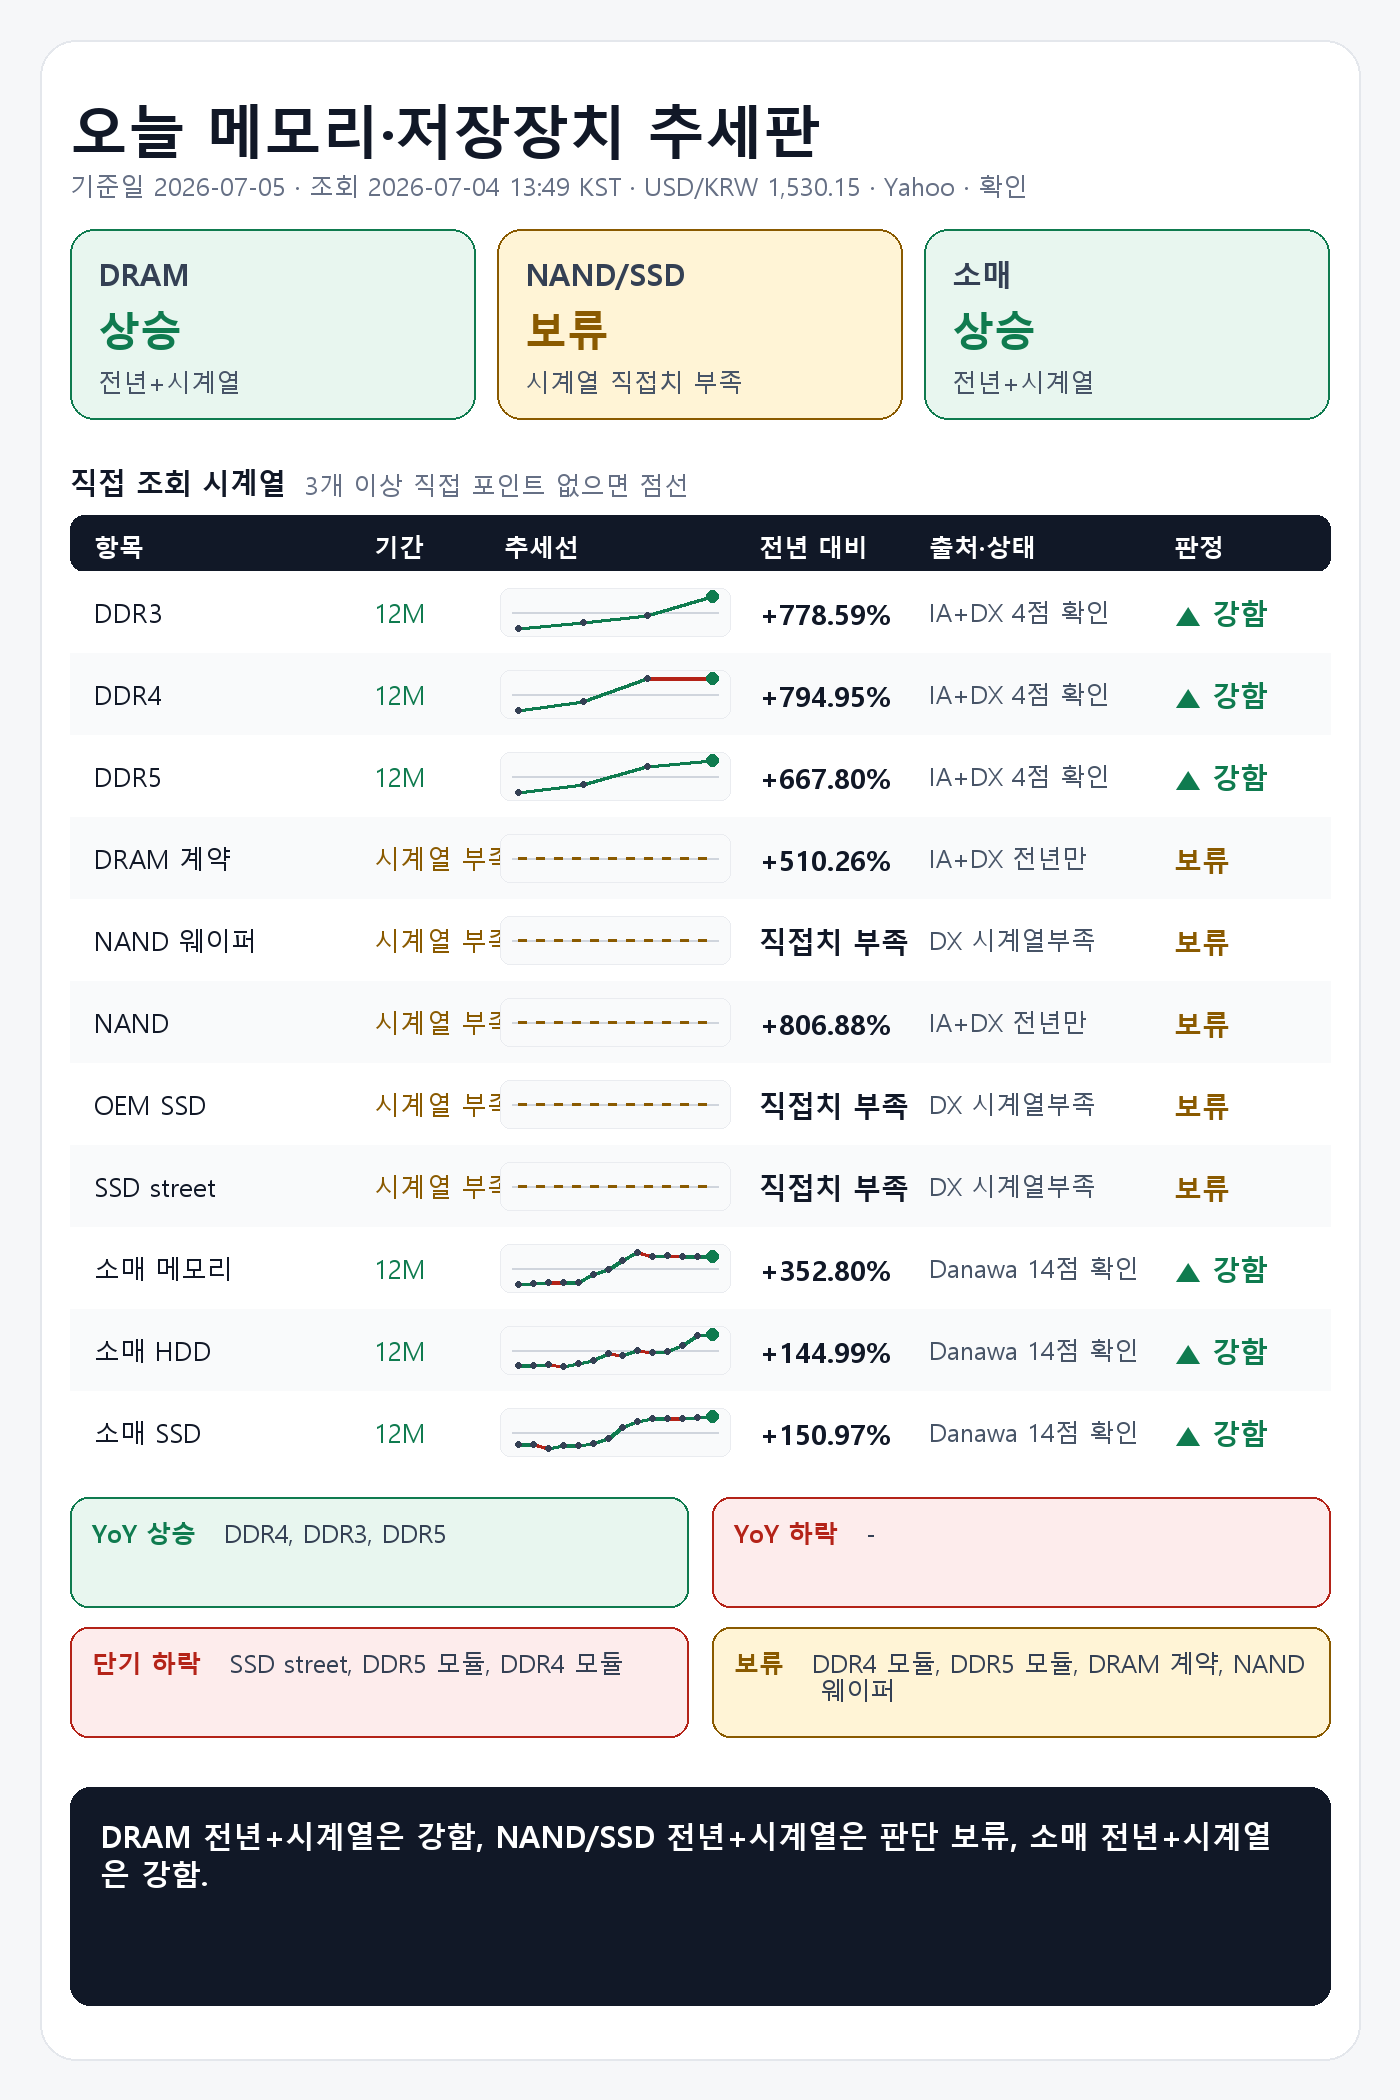
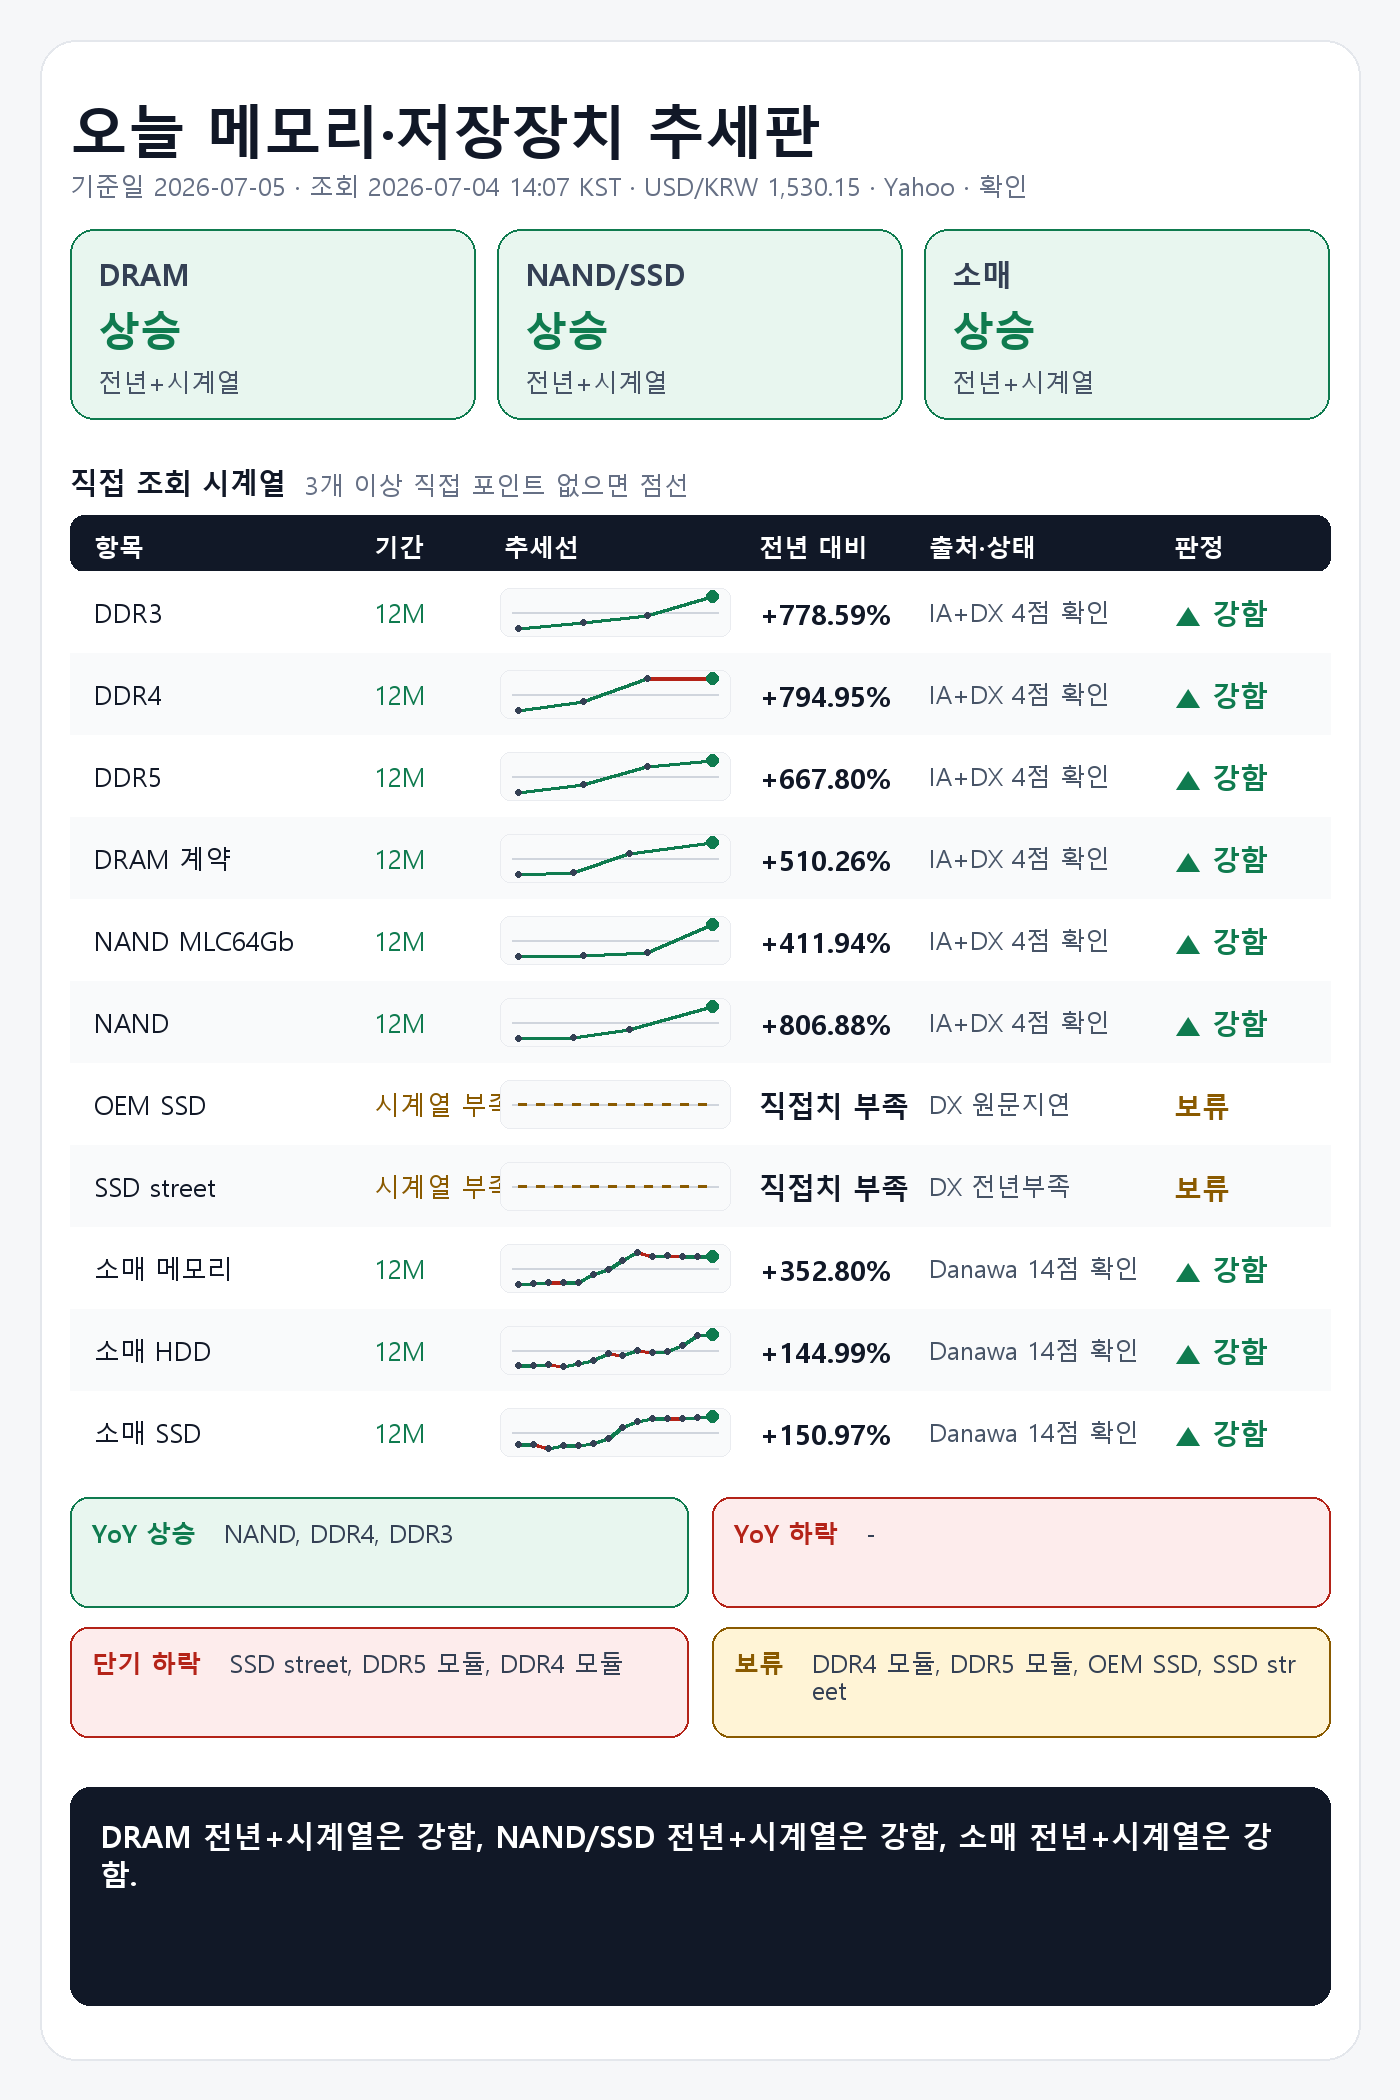
Backfill direct trend data where available

diff --git a/scripts/generate_memory_price_report.py b/scripts/generate_memory_price_report.py
@@ -305,6 +305,23 @@ def find_row(rows: list[SourceRow], *keywords: str) -> SourceRow | None:
     return None
 
 
+def find_nand_flash_row(rows: list[SourceRow]) -> SourceRow | None:
+    return (
+        find_row(rows, "TLC", "512Gb")
+        or find_row(rows, "MLC", "64Gb")
+        or find_row(rows, "MLC", "32Gb")
+    )
+
+
+def nand_flash_label(row: SourceRow | None) -> str:
+    if row is None:
+        return "NAND 웨이퍼"
+    match = re.search(r"\b(SLC|MLC|TLC)\s+(\d+Gb)\b", row.item)
+    if not match:
+        return "NAND 웨이퍼 (Flash spot)"
+    return f"NAND 웨이퍼 ({match.group(1)} {match.group(2)})"
+
+
 def record_from_row(label: str, group: str, row: SourceRow | None, rate: ExchangeRate, basis: str) -> ReportRecord:
     if row is None:
         return unavailable_record(label, group, "DRAMeXchange 공개표", DRAMEXCHANGE_HOME, UNAVAILABLE)
@@ -317,7 +334,7 @@ def record_from_row(label: str, group: str, row: SourceRow | None, rate: Exchang
         group=group,
         current=current,
         query_source=f"{QUERY_TIME} · DRAMeXchange 공개표",
-        last_update=row.last_update,
+        last_update=f"{row.last_update}, 항목 {row.item}",
         day=change if basis == "전일" else UNAVAILABLE,
         week=change if basis == "전주" else UNAVAILABLE,
         month=change if basis == "전월" else UNAVAILABLE,
@@ -495,6 +512,7 @@ def build_records(rate: ExchangeRate) -> list[ReportRecord]:
     flash_contract = fetch_home_price("NationalFlashContract")
     pcc_contract = fetch_home_price("PCC")
     ssd_street = fetch_home_price("SSD")
+    nand_flash_row = find_nand_flash_row(flash_rows)
 
     records = [
         record_from_row("DDR3 칩", "DRAM", find_row(dram_rows, "DDR3"), rate, "전일"),
@@ -510,7 +528,7 @@ def build_records(rate: ExchangeRate) -> list[ReportRecord]:
             "DRAMeXchange HomePrice NationalDramContract",
             "https://www.dramexchange.com/Price/NationalContractDramDetail",
         ),
-        record_from_row("NAND 웨이퍼", "NAND/SSD", find_row(flash_rows, "TLC", "512Gb"), rate, "전일"),
+        record_from_row(nand_flash_label(nand_flash_row), "NAND/SSD", nand_flash_row, rate, "전일"),
         record_from_home_price(
             "NAND 계약가",
             "NAND/SSD",
@@ -710,7 +728,7 @@ def fetch_prior_year_dramexchange_spot(prior_date: date) -> dict[str, PriorYearV
         add_prior_from_row(values, "DDR5 칩", find_row(dram_rows, "DDR5", "2Gx8", "4800"), source, archive_url, reference)
         add_prior_from_row(values, "DDR4 모듈", find_row(module_rows, "DDR4", "UDIMM", "16GB", "3200"), source, archive_url, reference)
         add_prior_from_row(values, "DDR5 모듈", find_row(module_rows, "DDR5", "UDIMM", "16GB"), source, archive_url, reference)
-        add_prior_from_row(values, "NAND 웨이퍼", find_row(flash_rows, "TLC", "512Gb"), source, archive_url, reference)
+        add_prior_from_row(values, "NAND 웨이퍼", find_nand_flash_row(flash_rows), source, archive_url, reference)
         return values
     return {}
 
@@ -907,7 +925,7 @@ def fetch_dramexchange_spot_trend_points(start: date, end: date) -> dict[str, li
         add_trend_point(mapping, "DDR5 칩", find_row(dram_rows, "DDR5", "2Gx8", "4800"), capture)
         add_trend_point(mapping, "DDR4 모듈", find_row(module_rows, "DDR4", "UDIMM", "16GB", "3200"), capture)
         add_trend_point(mapping, "DDR5 모듈", find_row(module_rows, "DDR5", "UDIMM", "16GB"), capture)
-        add_trend_point(mapping, "NAND 웨이퍼", find_row(flash_rows, "TLC", "512Gb"), capture)
+        add_trend_point(mapping, "NAND 웨이퍼", find_nand_flash_row(flash_rows), capture)
     return mapping
 
 
@@ -947,21 +965,21 @@ def fetch_dramexchange_home_price_trend_points(start: date, end: date) -> dict[s
     ]
     mapping: dict[str, list[TrendPoint]] = {}
     targets = trend_target_dates(start, end, IMAGE_TREND_POINTS)
+    captures = fetch_cdx_captures(
+        "www.dramexchange.com/Home/HomePrice*",
+        start - timedelta(days=45),
+        end + timedelta(days=45),
+        800,
+    )
     for label, source_key, field, keywords, source_name in specs:
         seen: set[str] = set()
+        source_captures = [
+            capture
+            for capture in captures
+            if f"source={source_key.lower()}" in capture.get("original", "").lower()
+        ]
         for target in targets:
-            captures = fetch_cdx_captures(
-                "www.dramexchange.com/Home/HomePrice*",
-                target - timedelta(days=45),
-                target + timedelta(days=45),
-                80,
-            )
-            source_captures = [
-                capture
-                for capture in captures
-                if f"source={source_key.lower()}" in capture.get("original", "").lower()
-            ]
-            for capture in sorted_captures_by_distance(source_captures, target)[:2]:
+            for capture in sorted_captures_by_distance(source_captures, target)[:4]:
                 key = capture.get("timestamp", "") + capture.get("original", "")
                 if key and key in seen:
                     continue
@@ -1020,7 +1038,7 @@ def dedupe_trend_points(points: list[TrendPoint]) -> list[TrendPoint]:
 def apply_trend_points(records: list[ReportRecord]) -> None:
     start = add_months(TODAY_DATE, -IMAGE_TREND_MONTHS)
     trend_sources: dict[str, list[TrendPoint]] = {}
-    for fetcher in (fetch_dramexchange_spot_trend_points,):
+    for fetcher in (fetch_dramexchange_spot_trend_points, fetch_dramexchange_home_price_trend_points):
         try:
             for label, points in fetcher(start, TODAY_DATE).items():
                 trend_sources.setdefault(label, []).extend(points)
@@ -1094,6 +1112,59 @@ def apply_yoy(records: list[ReportRecord]) -> None:
         record.yoy_source_url = prior.source_url
         record.yoy_reference = prior.reference
         record.year = f"전년 대비 {pct_text(record.yoy_pct)} · 전년값 {prior.reference} · 출처 {prior.source}"
+
+
+def trend_point_reference_date(point: TrendPoint) -> date | None:
+    match = re.search(r"\d{4}-\d{2}-\d{2}", point.reference or "")
+    if match:
+        try:
+            return datetime.strptime(match.group(0), "%Y-%m-%d").date()
+        except ValueError:
+            pass
+    month = month_index(point.label)
+    if month is None:
+        return None
+    year = month // 12
+    month_number = month % 12 + 1
+    return date(year, month_number, min(TODAY_DATE.day, 28))
+
+
+def trend_point_matches_prior(point: TrendPoint, prior_date: date) -> bool:
+    point_date = trend_point_reference_date(point)
+    if point_date is None:
+        return False
+    same_month = point_date.year == prior_date.year and point_date.month == prior_date.month
+    return same_month or abs((point_date - prior_date).days) <= STALE_REFERENCE_DAYS
+
+
+def apply_yoy_from_trend_points(records: list[ReportRecord]) -> None:
+    prior_date = previous_year_date(TODAY_DATE)
+    current_label = TODAY_DATE.strftime("%y-%m")
+    for record in records:
+        if record.yoy_status == VERIFIED:
+            continue
+        if record.certainty_status != VERIFIED or record.numeric_value is None:
+            continue
+        candidates = [
+            point
+            for point in record.trend_points
+            if point.value > 0 and point.label != current_label and trend_point_matches_prior(point, prior_date)
+        ]
+        if not candidates:
+            continue
+        prior_point = min(
+            candidates,
+            key=lambda point: abs(((trend_point_reference_date(point) or prior_date) - prior_date).days),
+        )
+        record.yoy_pct = ((record.numeric_value / prior_point.value) - 1) * 100
+        record.yoy_status = VERIFIED
+        record.yoy_source = prior_point.source
+        record.yoy_source_url = prior_point.source_url
+        record.yoy_reference = prior_point.reference
+        record.year = (
+            f"전년 대비 {pct_text(record.yoy_pct)} · 전년값 {prior_point.reference} · "
+            f"출처 {prior_point.source}"
+        )
 
 
 def save_snapshot(records: list[ReportRecord], rate: ExchangeRate) -> Path:
@@ -1176,6 +1247,9 @@ def summarize(records: list[ReportRecord]) -> dict[str, list[str]]:
 
 
 def compact_label(label: str) -> str:
+    nand_match = re.search(r"NAND 웨이퍼 \((SLC|MLC|TLC) (\d+Gb)\)", label)
+    if nand_match:
+        return f"NAND {nand_match.group(1)}{nand_match.group(2)}"
     base = label.split(" (", 1)[0]
     replacements = {
         "DDR3 칩": "DDR3",
@@ -1331,6 +1405,20 @@ def build_card_data(records: list[ReportRecord], rate: ExchangeRate, conclusion:
     def image_group_direction(group: str) -> str:
         return group_yoy_direction(records, group, require_series=True)
 
+    def row_source_status(record: ReportRecord, has_series: bool, verified_yoy: bool, series_count: int) -> str:
+        if has_series:
+            return f"{compact_trend_source(record)} {series_count}점 확인"
+        base = base_label(record)
+        if base in {"DDR4 모듈", "DDR5 모듈"}:
+            return "DX 사양불일치"
+        if base == "PC-client OEM SSD 계약가":
+            return "DX 원문지연"
+        if base == "SSD street price":
+            return "DX 전년부족"
+        if verified_yoy:
+            return f"{compact_yoy_source(record)} 전년만"
+        return f"{compact_source(record)} 시계열부족"
+
     def box(label: str, group: str) -> dict[str, str]:
         direction = image_group_direction(group)
         status = {"강함": "상승", "약함": "하락", "보합": "보합"}.get(direction, "보류")
@@ -1382,13 +1470,7 @@ def build_card_data(records: list[ReportRecord], rate: ExchangeRate, conclusion:
         symbol = "▲ " if display_verdict == "강함" else "▼ " if display_verdict == "약함" else "— " if display_verdict == "보합" else ""
         series = row_series(record)
         has_series = len(series) >= 3
-        source_status = (
-            f"{compact_trend_source(record)} {len(series)}점 확인"
-            if has_series
-            else f"{compact_yoy_source(record)} 전년만"
-            if verified_yoy
-            else f"{compact_source(record)} 시계열부족"
-        )
+        source_status = row_source_status(record, has_series, verified_yoy, len(series))
         rows.append(
             {
                 "item": compact_label(record.label),
@@ -1942,6 +2024,7 @@ def main() -> None:
     records = build_records(rate)
     apply_yoy(records)
     apply_trend_points(records)
+    apply_yoy_from_trend_points(records)
 
     report_path = REPORTS_DIR / f"memory_price_report_{TODAY}.md"
     card_path = REPORTS_DIR / f"memory_price_summary_{TODAY}.png"

diff --git a/reports/memory_price_report_2026-07-05.md b/reports/memory_price_report_2026-07-05.md
@@ -1,5 +1,5 @@
 ## 1. 기준 환율 1줄
-USD/KRW: 1,530.15원 (조회 2026-07-04 13:49 KST, 출처 Yahoo Finance USDKRW=X, 원문 Last Update 2026-07-04 05:27 KST, 상태 확인, 전일 대비 -0.33%).
+USD/KRW: 1,530.15원 (조회 2026-07-04 14:07 KST, 출처 Yahoo Finance USDKRW=X, 원문 Last Update 2026-07-04 05:27 KST, 상태 확인, 전일 대비 -0.33%).
 
 ## 2. 오늘 한눈에 추세판
 | 구분 | 현재값 | 전일 | 전주 | 전월 | 전년 | 추세 | 판정 |
@@ -10,7 +10,7 @@ USD/KRW: 1,530.15원 (조회 2026-07-04 13:49 KST, 출처 Yahoo Finance USDKRW=X
 | DDR4 모듈 | $149.576 (약 228,874원) | 확인 불가 | 공개 변화율 -0.23% | 확인 불가 | 전년 직접치 부족 | 공개 변화율 -0.23% 기준 보합 | 보합 |
 | DDR5 모듈 | $208.500 (약 319,036원) | 확인 불가 | 공개 변화율 -0.24% | 확인 불가 | 전년 직접치 부족 | 공개 변화율 -0.24% 기준 보합 | 보합 |
 | DRAM 계약가 (DDR4 8GB SO-DIMM) | $119.000 (약 182,088원) | 확인 불가 | 확인 불가 | 공개 변화율 +0.00%, 기준값 확인 불가 | 전년 대비 +510.26% · 전년값 원문 2025-05-29 16:00:00, 캡처 2025-07-07 16:02 KST · 출처 Internet Archive DRAMeXchange HomePrice NationalDramContract 캡처 | 공개 변화율 +0.00% 기준 보합 | 보합 |
-| NAND 웨이퍼 | 확인 불가 | 확인 불가 | 확인 불가 | 확인 불가 | 현재 직접치 부족 | 확인 불가 | 판단 보류 |
+| NAND 웨이퍼 (MLC 64Gb) | $29.068 (약 44,478원) | 공개 변화율 +3.14% | 확인 불가 | 확인 불가 | 전년 대비 +411.94% · 전년값 캡처 2025-07-02 04:01 KST, 원문 Last Update 별도 없음, 항목 MLC 64Gb 8GBx8 · 출처 Internet Archive DRAMeXchange 공개표 캡처 | 공개 변화율 +3.14% 기준 상승 | 강함 |
 | NAND 계약가 (NAND 128Gb 16Gx8 Speedns) | $26.508 (약 40,561원) | 확인 불가 | 확인 불가 | 공개 변화율 +9.73%, 기준값 확인 불가 | 전년 대비 +806.88% · 전년값 원문 2025-05-29 09:00:00, 캡처 2025-07-07 16:02 KST · 출처 Internet Archive DRAMeXchange HomePrice NationalFlashContract 캡처 | 공개 변화율 +9.73% 기준 상승 | 강함 |
 | PC-client OEM SSD 계약가 (1TB-mSATA/M.2 TLC PCIe-Value Grade) | 지연/불일치 있음 | 확인 불가 | 확인 불가 | 지연/불일치 있음 | 현재 직접치 부족 | 지연/불일치 있음 | 판단 보류 |
 | SSD street price (990 Pro) | $219.990 (약 336,618원) | 확인 불가 | 확인 불가 | 공개 변화율 -12.00%, 기준값 확인 불가 | 전년 직접치 부족 | 공개 변화율 -12.00% 기준 하락 | 약함 |
@@ -19,30 +19,30 @@ USD/KRW: 1,530.15원 (조회 2026-07-04 13:49 KST, 출처 Yahoo Finance USDKRW=X
 | 소매 SSD (Samsung 990 PRO 1TB) | 399,990원 | 확인 불가 | 확인 불가 | 확인 불가 | 전년 대비 +150.97% · 전년값 25-07 월간 가격추이 · 출처 Danawa 가격추이 24개월 · Samsung 990 PRO 1TB | 비교 기준값 확인 불가 | 판단 보류 |
 
 ## 3. 상승·하락 요약 4줄
-상승: DDR3 칩 +1.09%, DDR4 칩 +1.16%, NAND 계약가 +9.73%
+상승: DDR3 칩 +1.09%, DDR4 칩 +1.16%, NAND 웨이퍼 +3.14%, NAND 계약가 +9.73%
 하락: SSD street price -12.00%
-전년: DDR3 칩 +778.59%, DDR4 칩 +794.95%, DDR5 칩 +667.80%, DRAM 계약가 +510.26%, NAND 계약가 +806.88%, 소매 메모리 +352.80%
-보류: NAND 웨이퍼, PC-client OEM SSD 계약가
+전년: DDR3 칩 +778.59%, DDR4 칩 +794.95%, DDR5 칩 +667.80%, DRAM 계약가 +510.26%, NAND 웨이퍼 +411.94%, NAND 계약가 +806.88%
+보류: PC-client OEM SSD 계약가
 
 ## 4. 가격표
 | 항목 | 현재값 | 조회 시각·출처·상태 | 원문 Last Update | 전월 대비 | 전년 대비 | 추세 |
 |---|---:|---|---|---|---|---|
-| DDR3 칩 | $12.476 (약 19,090원) | 2026-07-04 13:49 KST · DRAMeXchange 공개표 (https://www.dramexchange.com/Price/Dram_Spot) · 상태 확인 | 홈 공개표, 원문 Last Update 별도 없음 | 확인 불가 | 전년 대비 +778.59% · 전년값 캡처 2025-07-02 04:01 KST, 원문 Last Update 별도 없음, 항목 DDR3 4Gb 512Mx8 1600/1866 · 출처 Internet Archive DRAMeXchange 공개표 캡처 | 공개 변화율 +1.09% 기준 상승 |
-| DDR4 칩 | $76.375 (약 116,865원) | 2026-07-04 13:49 KST · DRAMeXchange 공개표 (https://www.dramexchange.com/Price/Dram_Spot) · 상태 확인 | 홈 공개표, 원문 Last Update 별도 없음 | 확인 불가 | 전년 대비 +794.95% · 전년값 캡처 2025-07-02 04:01 KST, 원문 Last Update 별도 없음, 항목 DDR4 16Gb (2Gx8)3200 · 출처 Internet Archive DRAMeXchange 공개표 캡처 | 공개 변화율 +1.16% 기준 상승 |
-| DDR5 칩 | $46.667 (약 71,408원) | 2026-07-04 13:49 KST · DRAMeXchange 공개표 (https://www.dramexchange.com/Price/Dram_Spot) · 상태 확인 | 홈 공개표, 원문 Last Update 별도 없음 | 확인 불가 | 전년 대비 +667.80% · 전년값 캡처 2025-07-02 04:01 KST, 원문 Last Update 별도 없음, 항목 DDR5 16G (2Gx8) 4800/5600 · 출처 Internet Archive DRAMeXchange 공개표 캡처 | 공개 변화율 +0.07% 기준 보합 |
-| DDR4 모듈 | $149.576 (약 228,874원) | 2026-07-04 13:49 KST · DRAMeXchange 공개표 (https://www.dramexchange.com/Price/Module_Spot) · 상태 확인 | 홈 공개표, 원문 Last Update 별도 없음 | 확인 불가 | 전년 직접치 부족 | 공개 변화율 -0.23% 기준 보합 |
-| DDR5 모듈 | $208.500 (약 319,036원) | 2026-07-04 13:49 KST · DRAMeXchange 공개표 (https://www.dramexchange.com/Price/Module_Spot) · 상태 확인 | 홈 공개표, 원문 Last Update 별도 없음 | 확인 불가 | 전년 직접치 부족 | 공개 변화율 -0.24% 기준 보합 |
-| DRAM 계약가 (DDR4 8GB SO-DIMM) | $119.000 (약 182,088원) | 2026-07-04 13:49 KST · DRAMeXchange HomePrice NationalDramContract (https://www.dramexchange.com/Price/NationalContractDramDetail) · 상태 확인 | 2026-05-29 15:00:00 | 공개 변화율 +0.00%, 기준값 확인 불가 | 전년 대비 +510.26% · 전년값 원문 2025-05-29 16:00:00, 캡처 2025-07-07 16:02 KST · 출처 Internet Archive DRAMeXchange HomePrice NationalDramContract 캡처 | 공개 변화율 +0.00% 기준 보합 |
-| NAND 웨이퍼 | 확인 불가 | 2026-07-04 13:49 KST · DRAMeXchange 공개표 (https://www.dramexchange.com/) · 상태 확인 불가 | 확인 불가 | 확인 불가 | 현재 직접치 부족 | 확인 불가 |
-| NAND 계약가 (NAND 128Gb 16Gx8 Speedns) | $26.508 (약 40,561원) | 2026-07-04 13:49 KST · DRAMeXchange HomePrice NationalFlashContract (https://www.dramexchange.com/Price/NationalContractFlashDetail) · 상태 확인 | 2026-05-29 10:00:00 | 공개 변화율 +9.73%, 기준값 확인 불가 | 전년 대비 +806.88% · 전년값 원문 2025-05-29 09:00:00, 캡처 2025-07-07 16:02 KST · 출처 Internet Archive DRAMeXchange HomePrice NationalFlashContract 캡처 | 공개 변화율 +9.73% 기준 상승 |
-| PC-client OEM SSD 계약가 (1TB-mSATA/M.2 TLC PCIe-Value Grade) | 지연/불일치 있음 | 2026-07-04 13:49 KST · DRAMeXchange HomePrice PCC (https://www.dramexchange.com/Price/PCClientOEMSSD) · 상태 지연/불일치 있음 | 2026-04-27 10:00:00 | 지연/불일치 있음 | 현재 직접치 부족 | 지연/불일치 있음 |
-| SSD street price (990 Pro) | $219.990 (약 336,618원) | 2026-07-04 13:49 KST · DRAMeXchange HomePrice SSD (https://www.dramexchange.com/Price/SSD_Street) · 상태 확인 | 2026-06-26 13:00:00 | 공개 변화율 -12.00%, 기준값 확인 불가 | 전년 직접치 부족 | 공개 변화율 -12.00% 기준 하락 |
-| 소매 메모리 (삼성전자 DDR5-5600 32GB) | 650,000원 | 2026-07-04 13:49 KST · Danawa prod 가격비교 · 삼성전자 DDR5-5600 32GB (https://prod.danawa.com/info/?pcode=20644043) · 상태 확인 | 상품 페이지 직접 조회, 원문 Last Update 별도 없음 | 확인 불가 | 전년 대비 +352.80% · 전년값 25-07 월간 가격추이 · 출처 Danawa 가격추이 24개월 · 삼성전자 DDR5-5600 32GB | 비교 기준값 확인 불가 |
-| 소매 HDD (Seagate BarraCuda 8TB) | 469,000원 | 2026-07-04 13:49 KST · Danawa prod 가격비교 · Seagate BarraCuda 8TB (https://prod.danawa.com/info/?pcode=5764992) · 상태 확인 | 상품 페이지 직접 조회, 원문 Last Update 별도 없음 | 확인 불가 | 전년 대비 +144.99% · 전년값 25-07 월간 가격추이 · 출처 Danawa 가격추이 24개월 · Seagate BarraCuda 8TB | 비교 기준값 확인 불가 |
-| 소매 SSD (Samsung 990 PRO 1TB) | 399,990원 | 2026-07-04 13:49 KST · Danawa prod 가격비교 · Samsung 990 PRO 1TB (https://prod.danawa.com/info/?pcode=18297002) · 상태 확인 | 상품 페이지 직접 조회, 원문 Last Update 별도 없음 | 확인 불가 | 전년 대비 +150.97% · 전년값 25-07 월간 가격추이 · 출처 Danawa 가격추이 24개월 · Samsung 990 PRO 1TB | 비교 기준값 확인 불가 |
+| DDR3 칩 | $12.476 (약 19,090원) | 2026-07-04 14:07 KST · DRAMeXchange 공개표 (https://www.dramexchange.com/Price/Dram_Spot) · 상태 확인 | 홈 공개표, 원문 Last Update 별도 없음, 항목 DDR3 4Gb 512Mx8 1600/1866 | 확인 불가 | 전년 대비 +778.59% · 전년값 캡처 2025-07-02 04:01 KST, 원문 Last Update 별도 없음, 항목 DDR3 4Gb 512Mx8 1600/1866 · 출처 Internet Archive DRAMeXchange 공개표 캡처 | 공개 변화율 +1.09% 기준 상승 |
+| DDR4 칩 | $76.375 (약 116,865원) | 2026-07-04 14:07 KST · DRAMeXchange 공개표 (https://www.dramexchange.com/Price/Dram_Spot) · 상태 확인 | 홈 공개표, 원문 Last Update 별도 없음, 항목 DDR4 16Gb (2Gx8) 3200 | 확인 불가 | 전년 대비 +794.95% · 전년값 캡처 2025-07-02 04:01 KST, 원문 Last Update 별도 없음, 항목 DDR4 16Gb (2Gx8)3200 · 출처 Internet Archive DRAMeXchange 공개표 캡처 | 공개 변화율 +1.16% 기준 상승 |
+| DDR5 칩 | $46.667 (약 71,408원) | 2026-07-04 14:07 KST · DRAMeXchange 공개표 (https://www.dramexchange.com/Price/Dram_Spot) · 상태 확인 | 홈 공개표, 원문 Last Update 별도 없음, 항목 DDR5 16Gb (2Gx8) 4800/5600 | 확인 불가 | 전년 대비 +667.80% · 전년값 캡처 2025-07-02 04:01 KST, 원문 Last Update 별도 없음, 항목 DDR5 16G (2Gx8) 4800/5600 · 출처 Internet Archive DRAMeXchange 공개표 캡처 | 공개 변화율 +0.07% 기준 보합 |
+| DDR4 모듈 | $149.576 (약 228,874원) | 2026-07-04 14:07 KST · DRAMeXchange 공개표 (https://www.dramexchange.com/Price/Module_Spot) · 상태 확인 | 홈 공개표, 원문 Last Update 별도 없음, 항목 DDR4 UDIMM 16GB 3200 | 확인 불가 | 전년 직접치 부족 | 공개 변화율 -0.23% 기준 보합 |
+| DDR5 모듈 | $208.500 (약 319,036원) | 2026-07-04 14:07 KST · DRAMeXchange 공개표 (https://www.dramexchange.com/Price/Module_Spot) · 상태 확인 | 홈 공개표, 원문 Last Update 별도 없음, 항목 DDR5 UDIMM 16GB 4800/5600 | 확인 불가 | 전년 직접치 부족 | 공개 변화율 -0.24% 기준 보합 |
+| DRAM 계약가 (DDR4 8GB SO-DIMM) | $119.000 (약 182,088원) | 2026-07-04 14:07 KST · DRAMeXchange HomePrice NationalDramContract (https://www.dramexchange.com/Price/NationalContractDramDetail) · 상태 확인 | 2026-05-29 15:00:00 | 공개 변화율 +0.00%, 기준값 확인 불가 | 전년 대비 +510.26% · 전년값 원문 2025-05-29 16:00:00, 캡처 2025-07-07 16:02 KST · 출처 Internet Archive DRAMeXchange HomePrice NationalDramContract 캡처 | 공개 변화율 +0.00% 기준 보합 |
+| NAND 웨이퍼 (MLC 64Gb) | $29.068 (약 44,478원) | 2026-07-04 14:07 KST · DRAMeXchange 공개표 (https://www.dramexchange.com/Price/Flash_Spot) · 상태 확인 | 홈 공개표, 원문 Last Update 별도 없음, 항목 MLC 64Gb 8GBx8 | 확인 불가 | 전년 대비 +411.94% · 전년값 캡처 2025-07-02 04:01 KST, 원문 Last Update 별도 없음, 항목 MLC 64Gb 8GBx8 · 출처 Internet Archive DRAMeXchange 공개표 캡처 | 공개 변화율 +3.14% 기준 상승 |
+| NAND 계약가 (NAND 128Gb 16Gx8 Speedns) | $26.508 (약 40,561원) | 2026-07-04 14:07 KST · DRAMeXchange HomePrice NationalFlashContract (https://www.dramexchange.com/Price/NationalContractFlashDetail) · 상태 확인 | 2026-05-29 10:00:00 | 공개 변화율 +9.73%, 기준값 확인 불가 | 전년 대비 +806.88% · 전년값 원문 2025-05-29 09:00:00, 캡처 2025-07-07 16:02 KST · 출처 Internet Archive DRAMeXchange HomePrice NationalFlashContract 캡처 | 공개 변화율 +9.73% 기준 상승 |
+| PC-client OEM SSD 계약가 (1TB-mSATA/M.2 TLC PCIe-Value Grade) | 지연/불일치 있음 | 2026-07-04 14:07 KST · DRAMeXchange HomePrice PCC (https://www.dramexchange.com/Price/PCClientOEMSSD) · 상태 지연/불일치 있음 | 2026-04-27 10:00:00 | 지연/불일치 있음 | 현재 직접치 부족 | 지연/불일치 있음 |
+| SSD street price (990 Pro) | $219.990 (약 336,618원) | 2026-07-04 14:07 KST · DRAMeXchange HomePrice SSD (https://www.dramexchange.com/Price/SSD_Street) · 상태 확인 | 2026-06-26 13:00:00 | 공개 변화율 -12.00%, 기준값 확인 불가 | 전년 직접치 부족 | 공개 변화율 -12.00% 기준 하락 |
+| 소매 메모리 (삼성전자 DDR5-5600 32GB) | 650,000원 | 2026-07-04 14:07 KST · Danawa prod 가격비교 · 삼성전자 DDR5-5600 32GB (https://prod.danawa.com/info/?pcode=20644043) · 상태 확인 | 상품 페이지 직접 조회, 원문 Last Update 별도 없음 | 확인 불가 | 전년 대비 +352.80% · 전년값 25-07 월간 가격추이 · 출처 Danawa 가격추이 24개월 · 삼성전자 DDR5-5600 32GB | 비교 기준값 확인 불가 |
+| 소매 HDD (Seagate BarraCuda 8TB) | 469,000원 | 2026-07-04 14:07 KST · Danawa prod 가격비교 · Seagate BarraCuda 8TB (https://prod.danawa.com/info/?pcode=5764992) · 상태 확인 | 상품 페이지 직접 조회, 원문 Last Update 별도 없음 | 확인 불가 | 전년 대비 +144.99% · 전년값 25-07 월간 가격추이 · 출처 Danawa 가격추이 24개월 · Seagate BarraCuda 8TB | 비교 기준값 확인 불가 |
+| 소매 SSD (Samsung 990 PRO 1TB) | 399,990원 | 2026-07-04 14:07 KST · Danawa prod 가격비교 · Samsung 990 PRO 1TB (https://prod.danawa.com/info/?pcode=18297002) · 상태 확인 | 상품 페이지 직접 조회, 원문 Last Update 별도 없음 | 확인 불가 | 전년 대비 +150.97% · 전년값 25-07 월간 가격추이 · 출처 Danawa 가격추이 24개월 · Samsung 990 PRO 1TB | 비교 기준값 확인 불가 |
 
 ## 5. 마지막 한 줄
-전년 기준으로 가장 강한 쪽은 NAND 계약가, 가장 약한 쪽은 소매 HDD, DRAM 전년+시계열 판정은 강함, NAND/SSD 전년+시계열 판정은 판단 보류.
+전년 기준으로 가장 강한 쪽은 NAND 계약가, 가장 약한 쪽은 소매 HDD, DRAM 전년+시계열 판정은 강함, NAND/SSD 전년+시계열 판정은 강함.
 
 ## 6. 마지막 이미지형 요약판
 ![오늘 메모리·저장장치 추세판](memory_price_summary_2026-07-05.png)